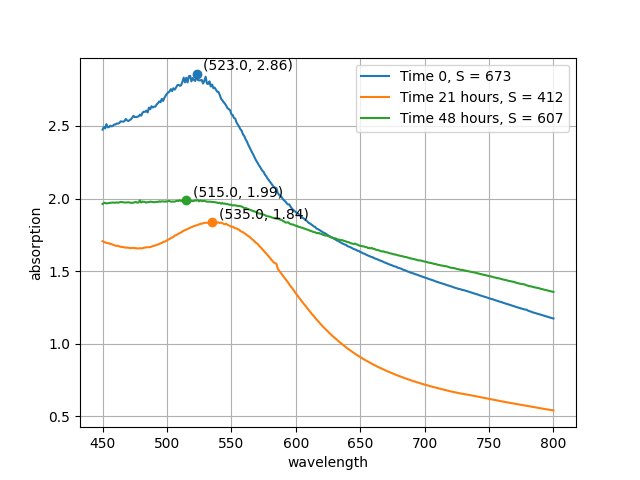
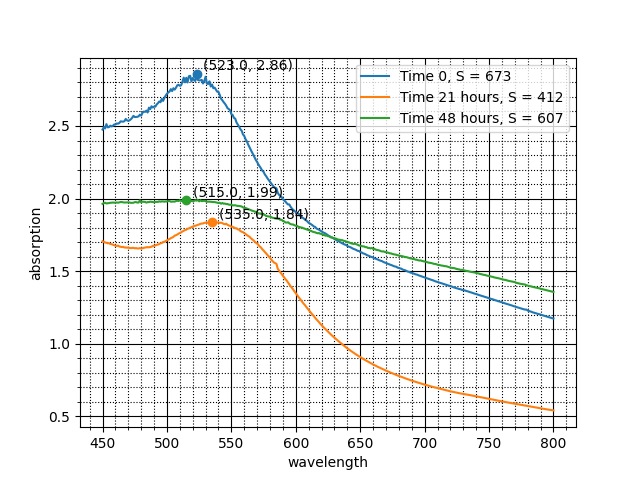
double level net added

diff --git a/task/main.py b/task/main.py
@@ -24,7 +24,11 @@ try:
     for dataset in data:
         plt.plot(dataset.length, dataset.absorption, label=dataset.label)
 
-    plt.grid(axis='both')
+    # plt.grid(axis='both')
+    plt.minorticks_on()
+    plt.grid(which='major', color = 'k')
+    plt.grid(which='minor', color = 'k', linestyle = ':')
+
     plt.legend()
     plt.xlabel('wavelength')
     plt.ylabel('absorption')
@@ -70,7 +74,10 @@ try:
             , f'({ table[i][1] }, { round(table[i][2], 2) })'
             )
 
-    plt.grid(axis='both')
+    # plt.grid(axis='both')
+    plt.minorticks_on()
+    plt.grid(which='major', color = 'k')
+    plt.grid(which='minor', color = 'k', linestyle = ':')
     plt.legend()
     plt.xlabel('wavelength')
     plt.ylabel('absorption')
